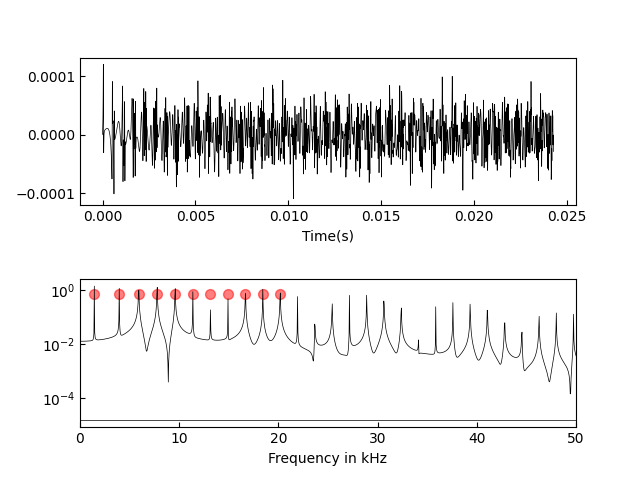
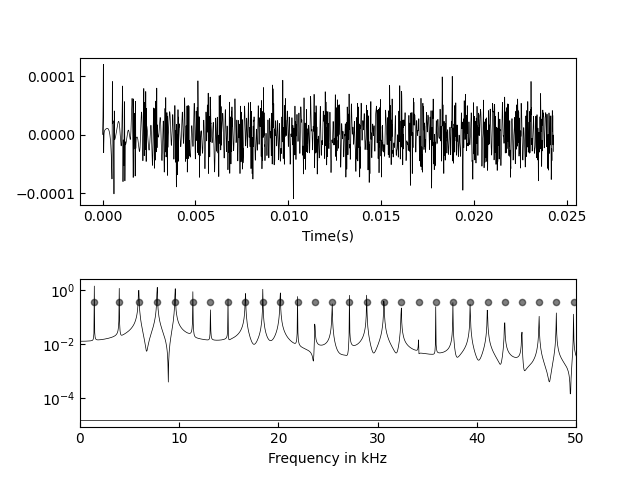
Added outcoordinateOutput2 which outputs the mass, pressure, density and radius. And called those functions in the main function

Changed region(s): [[0.125, 0.5938, 0.9062, 0.6562]]

diff --git a/CentralDensityVsTime.py b/CentralDensityVsTime.py
@@ -3,21 +3,24 @@ import numpy as np
 import matplotlib.pyplot as plt
 import sys
 
-# Define time values (you can modify this)
-time = np.linspace(0, 10000, 283015)  # Example time values from 0 to 10
+fileName = sys.argv[1] 
+fileName2 = sys.argv[2]
+r, e1, m1, P1, Cs1 = np.loadtxt(fileName, unpack=True)
+x, e, m, P, Cs = np.loadtxt(fileName2, unpack=True)
+#print(r, e1, m1, P1, Cs)
+def Plots(x1,y1, x2, y2, yLabel):
+    # Plot the first graph
+    plt.plot(x1, y1, label='r')
+    # Overlay the second graph, adjusted to align with the first plot's x-axis
+    plt.plot(x2, y2, label='x')
+    plt.xlabel('spatial coordinate[km]')
+    plt.ylabel(yLabel)
+    plt.tick_params(axis = 'both', direction = 'in', which = 'both')
+    plt.legend()
+    plt.show()
 
-def ReadFile():
-    density = np.loadtxt(sys.argv[1])
-    return np.array(density)/density[0]
 
-
-rho_c_over_rho_c0 = ReadFile()
-# Create the plot
-plt.figure(figsize=(8, 6))
-plt.plot(time, rho_c_over_rho_c0, label=r'$\rho_c/\rho_{c,0}$')
-plt.xlabel('Time')
-plt.ylabel(r'$\rho_c/\rho_{c,0}$')
-plt.title('Central Energy Density vs Time')
-plt.grid(True)
-plt.legend()
-plt.show()
+Plots(r, e1, x, e, r"$\rho[km^{-2}]$")
+Plots(r, m1, x, m, r"$M[km]$")
+Plots(r, P1, x, P, r"$p[km^{-2}]$")
+Plots(r, Cs1, x, Cs, r"$C_s$")

diff --git a/fft_data.py b/fft_data.py
@@ -9,7 +9,7 @@ t, h, u, s, xx, yy = np.genfromtxt(fileName, unpack=True)
 fr = np.genfromtxt(fileName2,unpack = True)
 
 
-def Signal(t, signal):
+def Signal(t, signal,type):
     # Convert time to seconds by dividing through by the speed of sound in km/s
     t = (t / 2.99792458e5)
 
@@ -30,17 +30,17 @@ def Signal(t, signal):
     
     FFTmax = []
     for i in range(len(fr)):
-        FFTmax.append(np.max(FFT)/2)
+        FFTmax.append(np.max(FFT)/4)
 
-    plt.scatter(fr, FFTmax, s = 50, c = 'red', alpha = 0.5, marker = 'o')
+    plt.scatter(fr, FFTmax, s = 20, c = 'black', alpha = 0.5, marker = 'o')
 
     plt.subplots_adjust(hspace=0.5)
 
     # plt.ylim(0, 1)  # Uncomment and adjust ylim as needed
-    # plt.savefig('spec.png')
+    plt.savefig('Plots/PowerSpectrum_for_'+type+'.png')
     plt.show()
 
-Signal(t, h); #: Amplitude and the Power Spectrum of the function h
-Signal(t, u); #: Amplitude and the Power Spectrum of the function u
-Signal(t, s); #: Amplitude and the Power Spectrum of the function s
+Signal(t, h, 'h'); #: Amplitude and the Power Spectrum of the function h
+Signal(t, u, 'u'); #: Amplitude and the Power Spectrum of the function u
+Signal(t, s, 's'); #: Amplitude and the Power Spectrum of the function s
 

diff --git a/main.cpp b/main.cpp
@@ -3,6 +3,7 @@
 #include <cmath>
 #include <iomanip>
 #include <vector>
+#include <thread>
 #include <sstream>
 #include <time.h>
 #include "tov_eq.hxx"
@@ -33,7 +34,9 @@ int main(int argc, char *argv[]) {
 		int t1 = clock();
 		std::cout << "it took " << t1 - t0 << " ticks, or " << ((float)t1 - t0)/CLOCKS_PER_SEC << " seconds." << std::endl;
 		outputFile.coordinateOutPut(i, LastIndex1, storage, "x");
+		//outputFile.coordinateOutPut2(i, LastIndex1, storage, "x");
 		outputFile.coordinateOutPut(i, LastIndex2, storage, "r");
+		//outputFile.coordinateOutPut2(i, LastIndex2, storage, "r");
 
 	}
 
